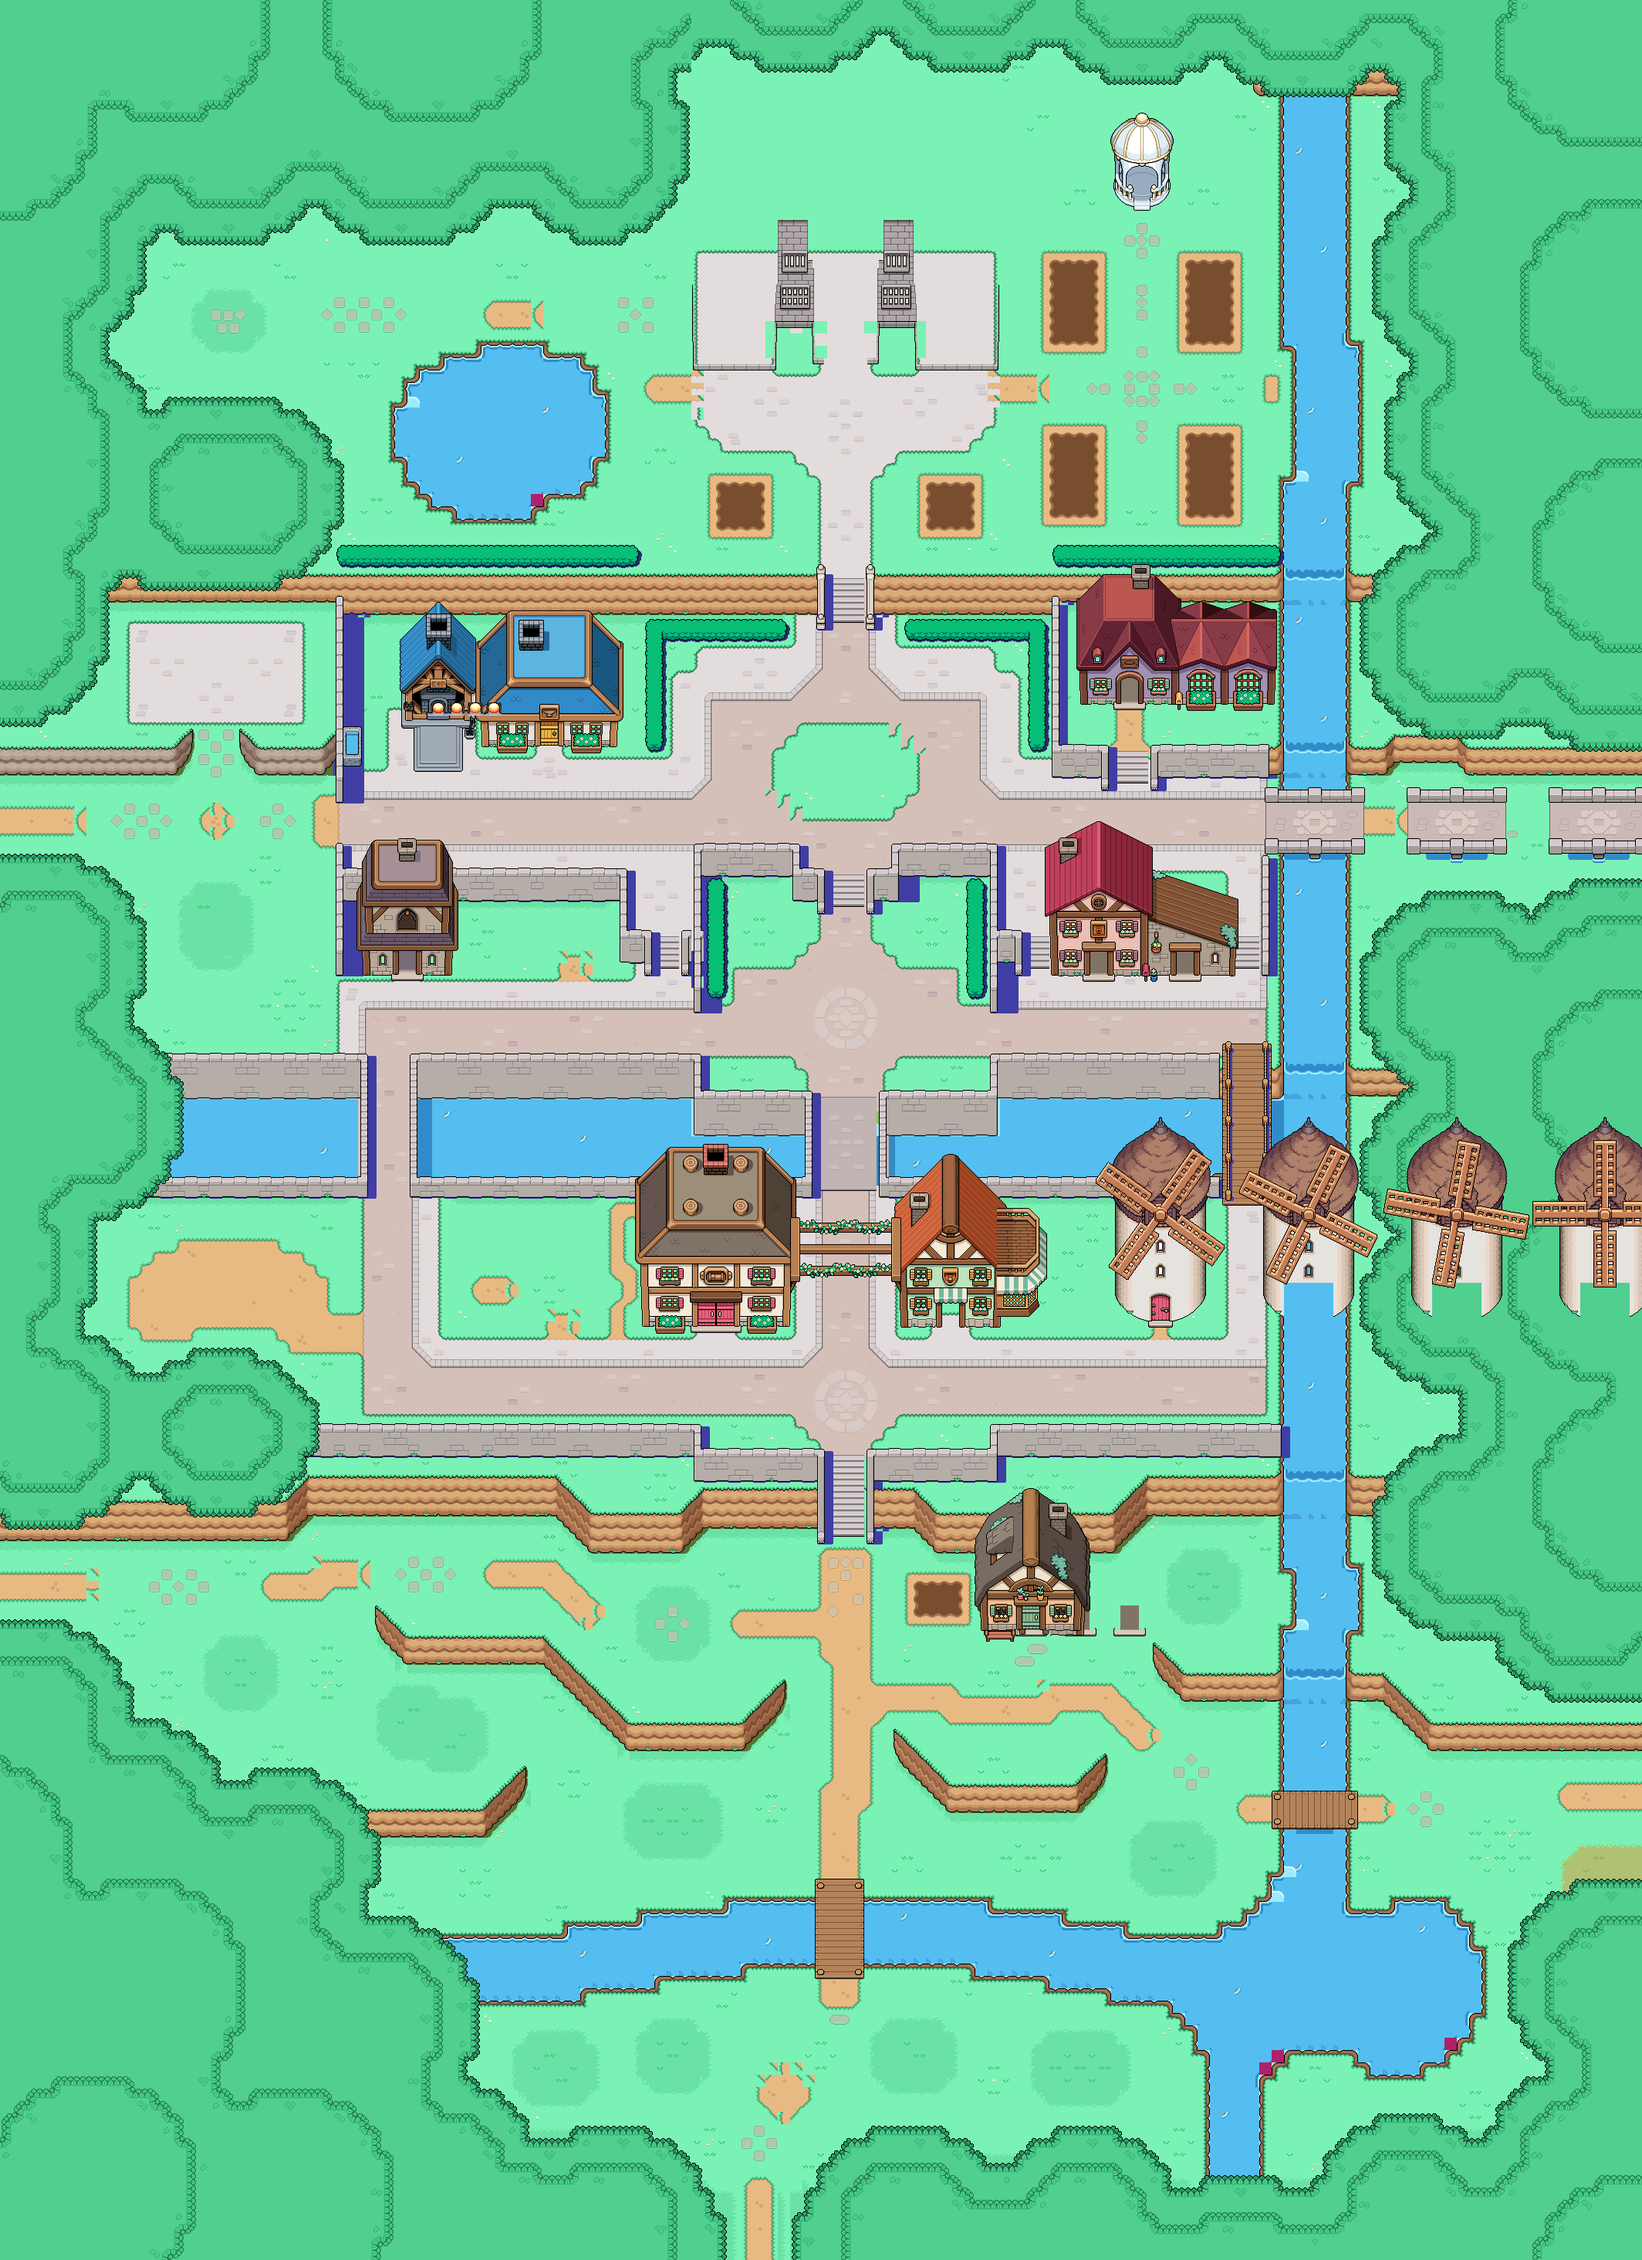
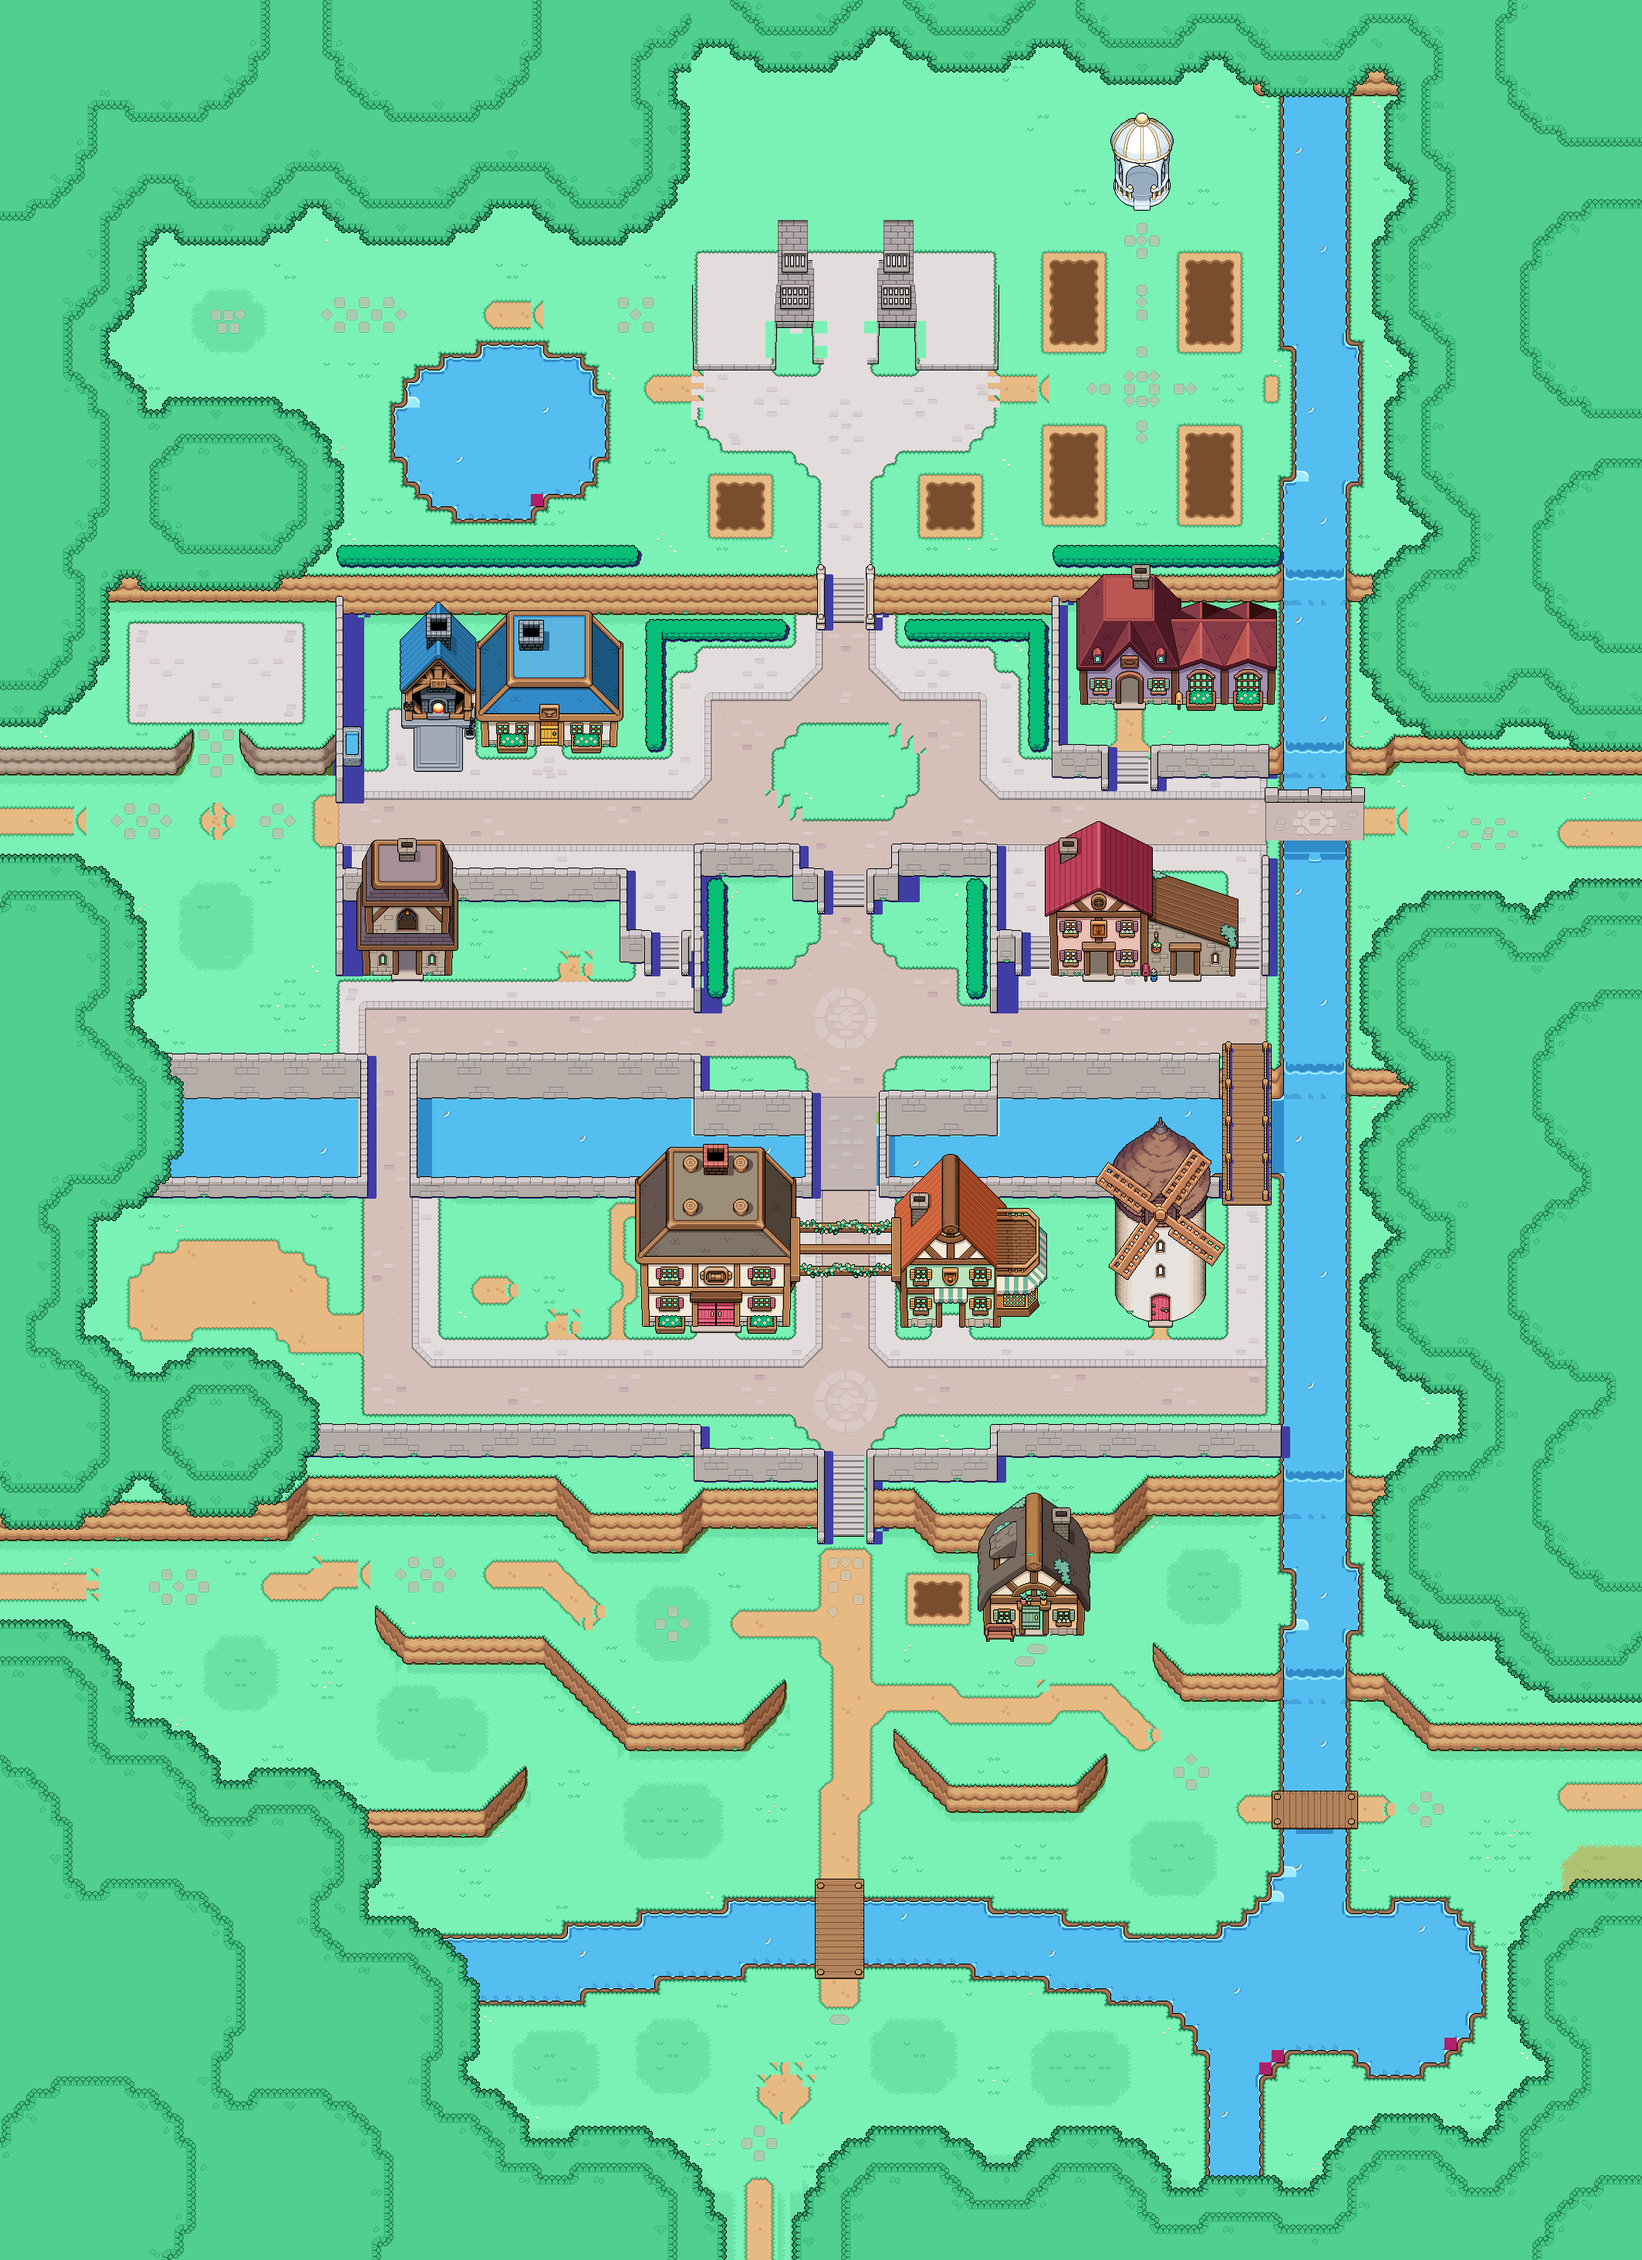
fix(world): clip animated spritesheets to frame 0, removing duplicate mills and bridge spans

diff --git a/scripts/bake_full_rm_town.js b/scripts/bake_full_rm_town.js
@@ -103,11 +103,13 @@ async function main() {
   while ((m = tileRegex.exec(gmXml)) !== null) {
     const tileId = parseInt(m[1], 10);
     const body = m[4];
-    const imgMatch = body.match(/<image\s+source="([^"]+)"/);
+    const imgMatch = body.match(/<image\s+(?:width="(\d+)"\s+height="(\d+)"\s+)?source="([^"]+)"/);
     if (imgMatch) {
-      const baseName = path.basename(imgMatch[1]).toLowerCase();
+      const tileW = m[2] ? parseInt(m[2], 10) : (imgMatch[1] ? parseInt(imgMatch[1], 10) : null);
+      const tileH = m[3] ? parseInt(m[3], 10) : (imgMatch[2] ? parseInt(imgMatch[2], 10) : null);
+      const baseName = path.basename(imgMatch[3]).toLowerCase();
       const resolved = allImages.get(baseName);
-      if (resolved) gmTiles.set(tileId, { file: resolved, baseName });
+      if (resolved) gmTiles.set(tileId, { file: resolved, baseName, tileW, tileH });
     }
   }
 
@@ -125,11 +127,14 @@ async function main() {
     }
   }
 
-  function blitImage(img, destX, destY) {
-    for (let py = 0; py < img.h; py++) {
+  function blitImage(img, destX, destY, frameW, frameH) {
+    const renderW = Math.min(img.w, frameW || img.w);
+    const renderH = Math.min(img.h, frameH || img.h);
+
+    for (let py = 0; py < renderH; py++) {
       const ty = destY + py;
       if (ty < 0 || ty >= pixelH) continue;
-      for (let px = 0; px < img.w; px++) {
+      for (let px = 0; px < renderW; px++) {
         const tx = destX + px;
         if (tx < 0 || tx >= pixelW) continue;
         const sIdx = (py * img.w + px) * 4;
@@ -188,7 +193,11 @@ async function main() {
           const info = gmTiles.get(cleanGid - 1);
           if (info) {
             const img = await getDecodedObj(info.file);
-            if (img) blitImage(img, Math.round(obj.x), Math.round(obj.y - img.h));
+            if (img) {
+              const frameW = obj.width || info.tileW || img.w;
+              const frameH = obj.height || info.tileH || img.h;
+              blitImage(img, Math.round(obj.x), Math.round(obj.y - frameH), frameW, frameH);
+            }
           }
         }
       }
@@ -226,16 +235,18 @@ async function main() {
     // General Store
     { file: 'public/village_assets/buildings/general_store/spr_town_building_generalstore_spring.png', x: 1148, y: 1729, isBottomOrigin: true },
     { file: 'public/village_assets/buildings/general_store/spr_town_building_generalstore_side_spring.png', x: 1284, y: 1727, isBottomOrigin: true },
-    // Mill
-    { file: 'public/village_assets/buildings/mill/spr_town_building_mill_spring_base_on.png', x: 1408, y: 1728, isBottomOrigin: true },
-    { file: 'public/village_assets/buildings/mill/spr_town_building_mill_spring_tower_on.png', x: 1408, y: 1728, isBottomOrigin: true },
-    { file: 'public/village_assets/buildings/mill/spr_town_building_mill_spring_blades_on.png', x: 1408, y: 1728, isBottomOrigin: true },
+    // Mill (Only 1 single authentic Mill tower & blades, frame 0 clipped to 192x288)
+    { file: 'public/village_assets/buildings/mill/spr_town_building_mill_spring_base_on.png', x: 1408, y: 1728, isBottomOrigin: true, frameW: 192, frameH: 288 },
+    { file: 'public/village_assets/buildings/mill/spr_town_building_mill_spring_doorway_on.png', x: 1408, y: 1728, isBottomOrigin: true, frameW: 192, frameH: 288 },
+    { file: 'public/village_assets/buildings/mill/spr_town_building_mill_door_spring_closed.png', x: 1480, y: 1727, isBottomOrigin: true, frameW: 48, frameH: 64 },
+    { file: 'public/village_assets/buildings/mill/spr_town_building_mill_spring_tower_on.png', x: 1408, y: 1728, isBottomOrigin: true, frameW: 192, frameH: 288 },
+    { file: 'public/village_assets/buildings/mill/spr_town_building_mill_spring_blades_on.png', x: 1408, y: 1728, isBottomOrigin: true, frameW: 192, frameH: 288 },
     // Celine's Cottage
-    { file: 'public/village_assets/buildings/cottage/spr_town_building_celine_spring.png', x: 1260, y: 2135, isBottomOrigin: true },
-    // Stone Bridge
-    { file: 'public/village_assets/architecture/bridges/spr_town_stone_bridge_horizontal_flat_spring.png', x: 1616, y: 1128, isBottomOrigin: true },
+    { file: 'public/village_assets/buildings/cottage/spr_town_building_celine_spring.png', x: 1260, y: 2135, isBottomOrigin: true, frameW: 176, frameH: 208 },
+    // Stone Bridge (Single bridge span across river, frame 0 clipped to 184x112)
+    { file: 'public/village_assets/architecture/bridges/spr_town_stone_bridge_horizontal_flat_spring.png', x: 1616, y: 1128, isBottomOrigin: true, frameW: 184, frameH: 112 },
     // Balor's Wagon
-    { file: 'public/village_assets/architecture/market_stalls/Balor/spr_town_balor_wagon_spring.png', x: 875, y: 2056, isBottomOrigin: true }
+    { file: 'public/village_assets/architecture/market_stalls/Balor/spr_town_balor_wagon_spring.png', x: 875, y: 2056, isBottomOrigin: true, frameW: 104, frameH: 96 }
   ];
 
   for (const b of keyBuildings) {
@@ -243,10 +254,12 @@ async function main() {
     if (fs.existsSync(resolved)) {
       const img = await getDecodedObj(resolved);
       if (img) {
+        const frameW = b.frameW || img.w;
+        const frameH = b.frameH || img.h;
         const destX = b.x;
-        const destY = b.isBottomOrigin ? b.y - img.h : b.y;
-        blitImage(img, destX, destY);
-        console.log(`Placed building: ${path.basename(b.file)} at (${destX}, ${destY})`);
+        const destY = b.isBottomOrigin ? b.y - frameH : b.y;
+        blitImage(img, destX, destY, frameW, frameH);
+        console.log(`Placed building: ${path.basename(b.file)} at (${destX}, ${destY}) [${frameW}x${frameH}]`);
       }
     } else {
       console.warn(`Building file missing: ${b.file}`);
@@ -266,13 +279,31 @@ async function main() {
         if (cleanGid < 1504) {
           const info = gmTiles.get(cleanGid - 1);
           if (info && info.file) {
-            // Don't re-render already placed main buildings
+            // Don't re-render already placed buildings or spritesheets
             const base = info.baseName;
-            if (base.includes('generalstore') || base.includes('inn_spring') || base.includes('bell_tower') || base.includes('clinic') || base.includes('bathhouse') || base.includes('manor') || base.includes('blacksmith_left') || base.includes('blacksmith_right') || base.includes('gazebo')) {
+            if (
+              base.includes('generalstore') ||
+              base.includes('inn_spring') ||
+              base.includes('bell_tower') ||
+              base.includes('clinic') ||
+              base.includes('bathhouse') ||
+              base.includes('manor') ||
+              base.includes('blacksmith_left') ||
+              base.includes('blacksmith_right') ||
+              base.includes('gazebo') ||
+              base.includes('mill_spring') ||
+              base.includes('stone_bridge') ||
+              base.includes('celine_spring') ||
+              base.includes('balor_wagon')
+            ) {
               continue;
             }
             const img = await getDecodedObj(info.file);
-            if (img) blitImage(img, Math.round(obj.x), Math.round(obj.y - img.h));
+            if (img) {
+              const frameW = obj.width || info.tileW || img.w;
+              const frameH = obj.height || info.tileH || img.h;
+              blitImage(img, Math.round(obj.x), Math.round(obj.y - frameH), frameW, frameH);
+            }
           }
         }
       }
@@ -287,15 +318,17 @@ async function main() {
     await renderAssets(layer);
   }
 
-  // 4. Save to public/village_assets/rm_town_full.png
-  const outPath = 'public/village_assets/rm_town_full.png';
-  console.log(`Saving full map (${pixelW}x${pixelH}) to ${outPath}...`);
-  await sharp(canvasBuffer, { raw: { width: pixelW, height: pixelH, channels: 4 } })
+  // 4. Save to public/village_assets/rm_town_full.png and village_assets/rm_town_full.png
+  const outPath1 = 'public/village_assets/rm_town_full.png';
+  const outPath2 = 'village_assets/rm_town_full.png';
+  console.log(`Saving full map (${pixelW}x${pixelH}) to ${outPath1}...`);
+  const pngBuffer = await sharp(canvasBuffer, { raw: { width: pixelW, height: pixelH, channels: 4 } })
     .png({ compressionLevel: 6 })
-    .toFile(outPath);
+    .toBuffer();
 
-  const stat = fs.statSync(outPath);
-  console.log(`SUCCESS! Saved ${outPath} (${Math.round(stat.size / 1024)} KB)`);
+  fs.writeFileSync(outPath1, pngBuffer);
+  fs.writeFileSync(outPath2, pngBuffer);
+  console.log('Successfully baked single authentic rm_town_full.png with ZERO duplicates!');
 }
 
 main().catch(console.error);
